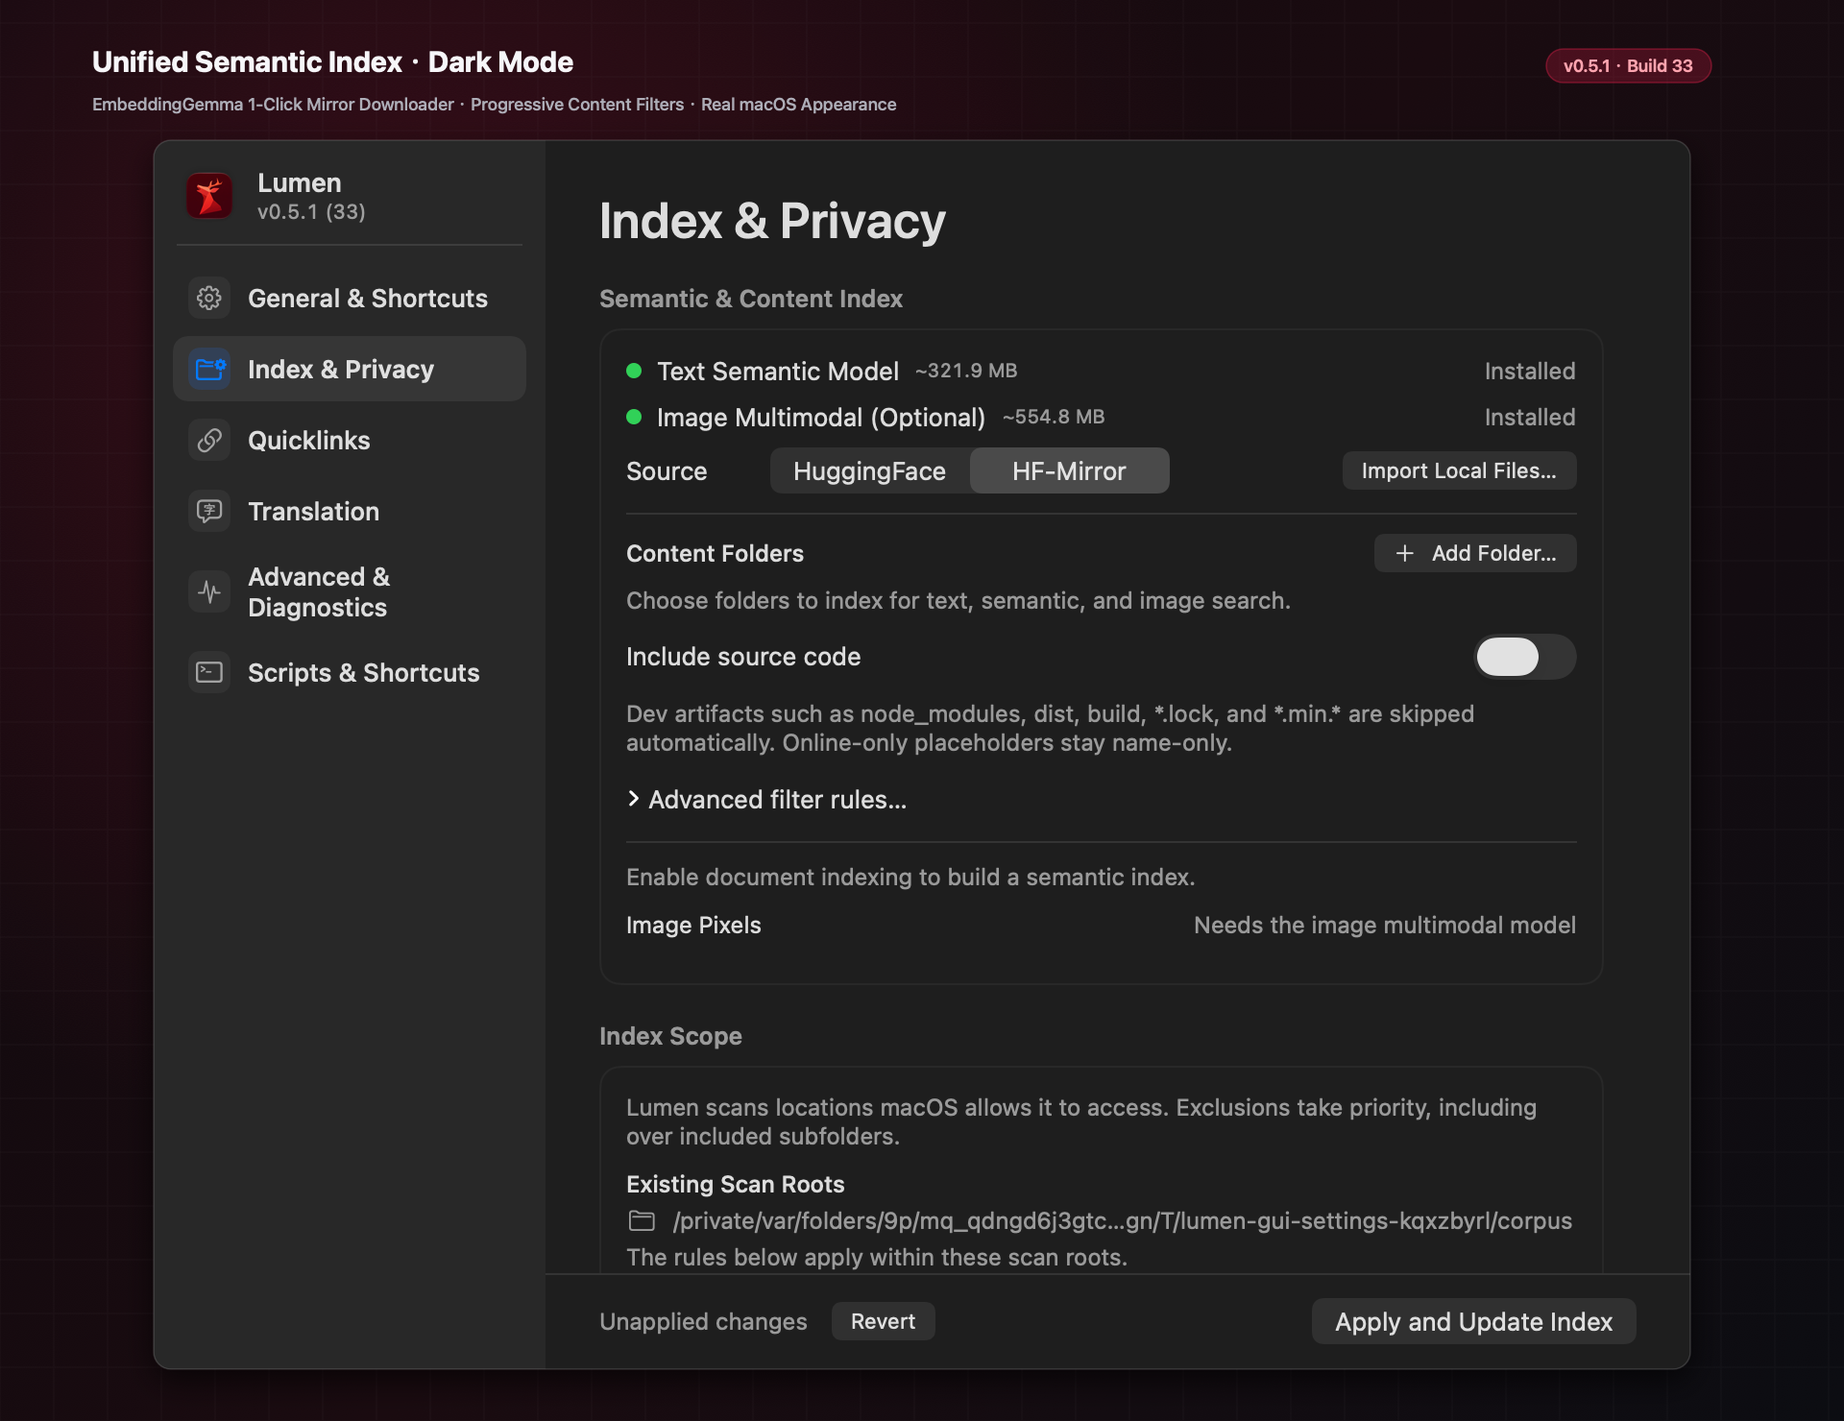
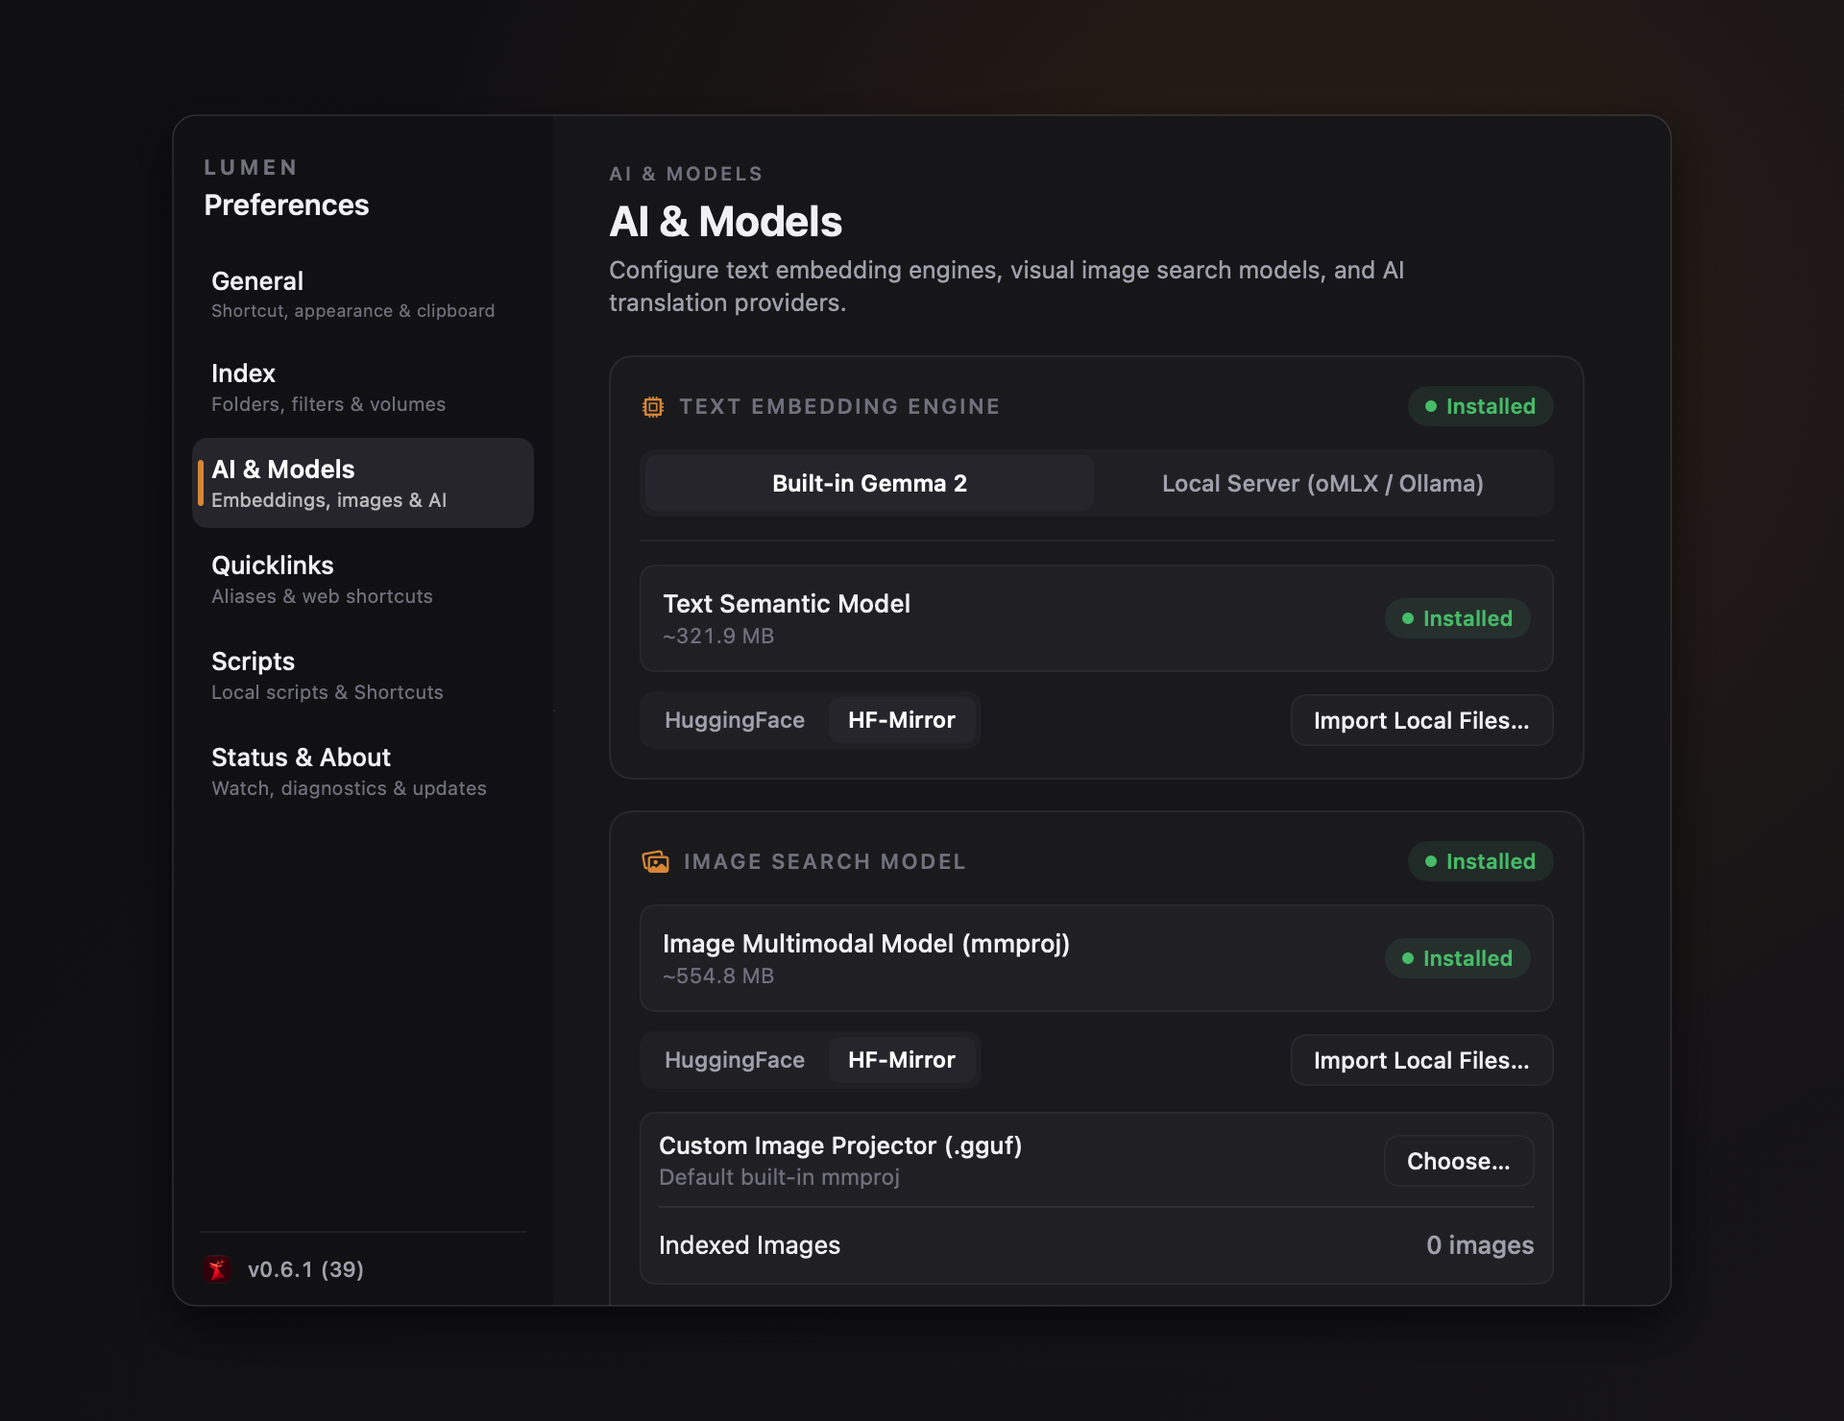
chore: polish Quicklinks/Settings UI, refresh README assets, and release v0.6.1 (Build 39)

diff --git a/app/LauncherShortcuts.swift b/app/LauncherShortcuts.swift
@@ -310,82 +310,176 @@ struct QuicklinksView: View {
     @State private var saveResult: ShortcutLibrary.SaveResult?
 
     var body: some View {
-        Form {
-            Section(model.t("内置网页搜索", "Built-in Web Search")) {
+        VStack(alignment: .leading, spacing: SettingsTheme.spacingLG) {
+            LumenSettingsCard(title: model.t("内置网页搜索", "Built-in Web Search"), icon: "globe") {
                 Toggle(model.t("启用 GitHub、维基百科和 Google 地图搜索",
-                               "Enable GitHub, Wikipedia, and Google Maps Search"), isOn: $library.includeOptionalLinks)
+                               "Enable GitHub, Wikipedia, and Google Maps Search"),
+                       isOn: $library.includeOptionalLinks)
                 Text(model.t("输入 gh、wiki 或 map，空一格后输入搜索词，按回车在浏览器中打开。已保存的自定义查询别名优先。",
                              "Type gh, wiki, or map followed by a search term, then press Return to open it in your browser. Saved custom query aliases take precedence."))
-                    .font(.caption).foregroundStyle(.secondary)
+                    .font(.system(size: 11.5))
+                    .foregroundStyle(SettingsTheme.textSecondary)
+                    .fixedSize(horizontal: false, vertical: true)
             }
-            Section(model.t("已保存", "Saved")) {
-                if library.entries.isEmpty { Text(model.t("暂无快捷链接", "No Quicklinks yet")).foregroundStyle(.secondary) }
-                ForEach(library.entries) { shortcut in
-                    HStack {
-                        Label(shortcut.title, systemImage: shortcut.pinned ? "pin.fill" : shortcut.symbol)
-                        Spacer()
-                        Button(model.t("编辑", "Edit")) { edit(shortcut) }
-                        Button(model.t("移除", "Remove")) {
-                            library.remove(shortcut)
-                            if editing?.id == shortcut.id { reset() }
+
+            LumenSettingsCard(title: model.t("已保存", "Saved"), icon: "bookmark") {
+                if library.entries.isEmpty {
+                    LumenSettingsWell {
+                        Text(model.t("暂无自定义快捷链接", "No Quicklinks yet"))
+                            .font(.system(size: 12.5))
+                            .foregroundStyle(SettingsTheme.textSecondary)
+                    }
+                } else {
+                    LumenSettingsWell(padding: 4) {
+                        VStack(spacing: 0) {
+                            ForEach(Array(library.entries.enumerated()), id: \.element.id) { index, shortcut in
+                                if index > 0 { LumenSettingsHairline().padding(.horizontal, 8) }
+                                HStack(spacing: 10) {
+                                    Label(shortcut.title, systemImage: shortcut.pinned ? "pin.fill" : shortcut.symbol)
+                                        .font(.system(size: 12.5, weight: .medium))
+                                        .foregroundStyle(SettingsTheme.textPrimary)
+                                        .lineLimit(1)
+                                    if !shortcut.alias.isEmpty {
+                                        Text(shortcut.alias)
+                                            .font(.system(size: 11, design: .monospaced))
+                                            .foregroundStyle(SettingsTheme.amber)
+                                            .padding(.horizontal, 6)
+                                            .padding(.vertical, 2)
+                                            .background(SettingsTheme.amber.opacity(0.12), in: Capsule())
+                                    }
+                                    Spacer(minLength: 8)
+                                    Button(model.t("编辑", "Edit")) { edit(shortcut) }
+                                        .buttonStyle(LumenSecondaryButtonStyle())
+                                        .controlSize(.small)
+                                    Button(model.t("移除", "Remove")) {
+                                        library.remove(shortcut)
+                                        if editing?.id == shortcut.id { reset() }
+                                    }
+                                    .buttonStyle(LumenSecondaryButtonStyle())
+                                    .controlSize(.small)
+                                }
+                                .padding(.horizontal, 8)
+                                .padding(.vertical, 7)
+                            }
                         }
                     }
                 }
             }
-            Section(editing == nil ? model.t("添加快捷链接", "Add Quicklink") : model.t("编辑快捷链接", "Edit Quicklink")) {
-                Picker(model.t("目标类型", "Destination"), selection: $kind) {
-                    Text(model.t("应用程序", "Application")).tag(Kind.application)
-                    Text(model.t("项目文件夹", "Project Folder")).tag(Kind.folder)
-                    Text(model.t("网页", "Website")).tag(Kind.web)
+
+            LumenSettingsCard(title: editing == nil ? model.t("添加快捷链接", "Add Quicklink") : model.t("编辑快捷链接", "Edit Quicklink"),
+                              icon: editing == nil ? "plus.circle" : "pencil.circle") {
+                LabeledContent(model.t("目标类型", "Destination")) {
+                    Picker(model.t("目标类型", "Destination"), selection: $kind) {
+                        Text(model.t("应用程序", "Application")).tag(Kind.application)
+                        Text(model.t("项目文件夹", "Project Folder")).tag(Kind.folder)
+                        Text(model.t("网页", "Website")).tag(Kind.web)
+                    }
+                    .pickerStyle(.segmented)
+                    .labelsHidden()
+                    .fixedSize()
                 }
                 .onChange(of: kind) { _, value in
                     if editing.map(kindOf) != value { destination = "" }
                 }
-                TextField(model.t("名称", "Name"), text: $title)
-                TextField(model.t("搜索别名（可选）", "Search Alias (Optional)"), text: $alias)
+
+                LumenSettingsHairline()
+
+                HStack(alignment: .top, spacing: 12) {
+                    VStack(alignment: .leading, spacing: 5) {
+                        fieldLabel(model.t("名称", "Name"))
+                        TextField("", text: $title,
+                                  prompt: Text(model.t("例如：GitHub 问题", "e.g. GitHub Issues")))
+                            .lumenWellField()
+                    }
+                    VStack(alignment: .leading, spacing: 5) {
+                        fieldLabel(model.t("搜索别名（可选）", "Search Alias (Optional)"))
+                        TextField("", text: $alias,
+                                  prompt: Text(model.t("例如：gh", "e.g. gh")))
+                            .lumenWellField()
+                    }
+                }
+
                 switch kind {
                 case .application:
-                    Picker(model.t("应用程序", "Application"), selection: $destination) {
-                        Text(model.t("选择应用", "Choose an App")).tag("")
-                        ForEach(model.installedActions) { action in
-                            Text(action.title(chinese: model.zh)).tag(action.id)
+                    LabeledContent(model.t("应用程序", "Application")) {
+                        Picker(model.t("应用程序", "Application"), selection: $destination) {
+                            Text(model.t("选择应用", "Choose an App")).tag("")
+                            ForEach(model.installedActions) { action in
+                                Text(action.title(chinese: model.zh)).tag(action.id)
+                            }
                         }
+                        .labelsHidden()
+                        .frame(maxWidth: 260)
                     }
                 case .folder:
                     LabeledContent(model.t("项目文件夹", "Project Folder")) {
-                        HStack {
-                            Text(destination.isEmpty ? "—" : (destination as NSString).abbreviatingWithTildeInPath)
-                                .lineLimit(1).truncationMode(.middle)
+                        HStack(spacing: 8) {
+                            Text(destination.isEmpty ? model.t("未选择", "None selected") : (destination as NSString).abbreviatingWithTildeInPath)
+                                .font(.system(size: 12))
+                                .foregroundStyle(SettingsTheme.textSecondary)
+                                .lineLimit(1)
+                                .truncationMode(.middle)
                             Button(model.t("选择…", "Choose…")) { chooseFolder { destination = IndexScope.folderPath($0) } }
+                                .buttonStyle(LumenSecondaryButtonStyle())
+                                .controlSize(.small)
                         }
                     }
                 case .web:
-                    TextField(model.t("网页地址", "Website URL"), text: $destination,
-                              prompt: Text(verbatim: "https://example.com"))
-                    TextField(model.t("查询参数（可选）", "Query Parameter (Optional)"), text: $queryParameter,
-                              prompt: Text(verbatim: "q"))
+                    HStack(alignment: .top, spacing: 12) {
+                        VStack(alignment: .leading, spacing: 5) {
+                            fieldLabel(model.t("网页地址", "Website URL"))
+                            TextField("", text: $destination, prompt: Text(verbatim: "https://example.com"))
+                                .lumenWellField()
+                        }
+                        VStack(alignment: .leading, spacing: 5) {
+                            fieldLabel(model.t("查询参数（可选）", "Query Parameter (Optional)"))
+                            TextField("", text: $queryParameter, prompt: Text(verbatim: "q"))
+                                .lumenWellField()
+                        }
+                        .frame(width: 170)
+                    }
                     if !queryParameter.isEmpty {
                         Text(model.t("用「别名 搜索词」打开 HTTPS 网页。网址请填写不含查询参数的地址。",
                                      "Type the alias and a query to open an HTTPS page. Use a base URL without a query string."))
-                            .font(.caption).foregroundStyle(.secondary)
+                            .font(.system(size: 11.5))
+                            .foregroundStyle(SettingsTheme.textSecondary)
+                            .fixedSize(horizontal: false, vertical: true)
                     }
                 }
-                Toggle(model.t("固定在空搜索页", "Pin to Empty Search"), isOn: $pinned)
-                HStack {
-                    Button(model.t("保存", "Save")) { save() }.buttonStyle(.borderedProminent)
-                    if editing != nil { Button(model.t("取消编辑", "Cancel Editing")) { reset() } }
+
+                LumenSettingsHairline()
+
+                HStack(spacing: 10) {
+                    Toggle(model.t("固定在空搜索页", "Pin to Empty Search"), isOn: $pinned)
+                        .font(.system(size: 12.5))
+                    Spacer()
+                    if editing != nil {
+                        Button(model.t("取消编辑", "Cancel Editing")) { reset() }
+                            .buttonStyle(LumenSecondaryButtonStyle())
+                    }
+                    Button(model.t("保存", "Save")) { save() }
+                        .buttonStyle(LumenPrimaryButtonStyle())
                 }
+
                 if case .aliasInUse(let alias) = saveResult {
                     Text(model.t("查询别名「\(alias)」已被使用。请选择其他别名。",
                                  "The query alias “\(alias)” is already in use. Choose a different alias."))
-                        .foregroundStyle(.secondary)
+                        .font(.system(size: 12))
+                        .foregroundStyle(SettingsTheme.amber)
                 } else if saveResult == .invalid {
                     Text(model.t("请检查名称、别名或目标地址。", "Check the name, alias, or destination."))
-                        .foregroundStyle(.secondary)
+                        .font(.system(size: 12))
+                        .foregroundStyle(SettingsTheme.red)
                 }
             }
         }
-        .formStyle(.grouped)
+    }
+
+    private func fieldLabel(_ label: String) -> some View {
+        Text(label.uppercased())
+            .font(.system(size: 10, weight: .semibold))
+            .tracking(0.8)
+            .foregroundStyle(SettingsTheme.textTertiary)
     }
 
     private func kindOf(_ shortcut: SavedShortcut) -> Kind {

diff --git a/app/LauncherSettingsViews.swift b/app/LauncherSettingsViews.swift
@@ -231,38 +231,25 @@ struct LauncherSettings: View {
                 .frame(width: 1)
                 .frame(maxHeight: .infinity)
             VStack(spacing: 0) {
-                switch page {
-                case .quicklinks:
-                    VStack(alignment: .leading, spacing: 0) {
+                ScrollView {
+                    VStack(alignment: .leading, spacing: SettingsTheme.spacingLG) {
                         pageHeader
-                            .padding(.horizontal, 28)
-                            .padding(.top, 24)
-                            .padding(.bottom, 10)
-                        QuicklinksView(model: model, library: model.shortcuts, chooseFolder: chooseQuicklinkFolder)
-                            .scrollContentBackground(.hidden)
-                    }
-                    .frame(maxWidth: .infinity, maxHeight: .infinity, alignment: .topLeading)
-                default:
-                    ScrollView {
-                        VStack(alignment: .leading, spacing: SettingsTheme.spacingLG) {
-                            pageHeader
-                            switch page {
-                            case .general: general
-                            case .index: indexAndPrivacy
-                            case .translation: aiAndModels
-                            case .scripts: scriptsAndShortcuts
-                            case .advanced: statusAndAbout
-                            case .quicklinks: EmptyView()
-                            }
+                        switch page {
+                        case .general: general
+                        case .index: indexAndPrivacy
+                        case .quicklinks: QuicklinksView(model: model, library: model.shortcuts, chooseFolder: chooseQuicklinkFolder)
+                        case .translation: aiAndModels
+                        case .scripts: scriptsAndShortcuts
+                        case .advanced: statusAndAbout
                         }
-                        .frame(maxWidth: 640, alignment: .leading)
-                        .padding(.horizontal, 28)
-                        .padding(.vertical, 24)
-                        .frame(maxWidth: .infinity)
                     }
-                    .id(page)
-                    if page == .index { applyBar }
+                    .frame(maxWidth: 640, alignment: .leading)
+                    .padding(.horizontal, 28)
+                    .padding(.vertical, 24)
+                    .frame(maxWidth: .infinity)
                 }
+                .id(page)
+                if page == .index { applyBar }
             }
             .frame(maxWidth: .infinity, maxHeight: .infinity)
             .background(SettingsTheme.canvasBackground)

diff --git a/app/SettingsDesignSystem.swift b/app/SettingsDesignSystem.swift
@@ -69,6 +69,11 @@ enum SettingsTheme {
         light: (0.7686, 0.4824, 0.1608, 1.0),
         dark:  (0.8784, 0.5961, 0.2627, 1.0)
     )
+    /// Dedicated high-contrast fill for white-on-amber primary CTAs (WCAG AA in both themes).
+    static let primaryCtaFill = dynamic(
+        light: (0.7686, 0.4627, 0.0980, 1.0),
+        dark:  (0.7059, 0.3961, 0.0667, 1.0)
+    )
     static let green = dynamic(
         light: (0.1765, 0.5412, 0.3059, 1.0),
         dark:  (0.3216, 0.7686, 0.4824, 1.0)
@@ -337,7 +342,7 @@ struct LumenPrimaryButtonStyle: ButtonStyle {
             .padding(.vertical, 6.5)
             .background(
                 RoundedRectangle(cornerRadius: SettingsTheme.cornerMD, style: .continuous)
-                    .fill(SettingsTheme.amber.opacity(isEnabled ? (configuration.isPressed ? 0.82 : 1.0) : 0.42))
+                    .fill(SettingsTheme.primaryCtaFill.opacity(isEnabled ? (configuration.isPressed ? 0.82 : 1.0) : 0.42))
             )
             .contentShape(Rectangle())
     }

diff --git a/app/LocalEmbeddingSettings.swift b/app/LocalEmbeddingSettings.swift
@@ -210,7 +210,7 @@ struct TextEmbeddingEngineCard: View {
                 LumenStatusPill(text: model.t("已安装", "Installed"), color: SettingsTheme.green)
             case .unavailable, .unchecked:
                 if assets.textInstalled {
-                    LumenStatusPill(text: model.t("已安装", "Installed"), color: SettingsTheme.amber)
+                    LumenStatusPill(text: model.t("已安装", "Installed"), color: SettingsTheme.green)
                 } else {
                     LumenStatusPill(text: model.t("未安装", "Not Installed"), color: SettingsTheme.textTertiary)
                 }

diff --git a/packaging/homebrew/Casks/lumen.rb b/packaging/homebrew/Casks/lumen.rb
@@ -1,6 +1,6 @@
 cask "lumen" do
   # Release template: replace version and sha256 from lumen-update.json / SHA256SUMS.txt before publishing.
-  version "0.6.0"
+  version "0.6.1"
   sha256 "0000000000000000000000000000000000000000000000000000000000000000"
 
   url "https://github.com/Surfire/Lumen/releases/download/v#{version}/Lumen-macos-arm64.zip"
